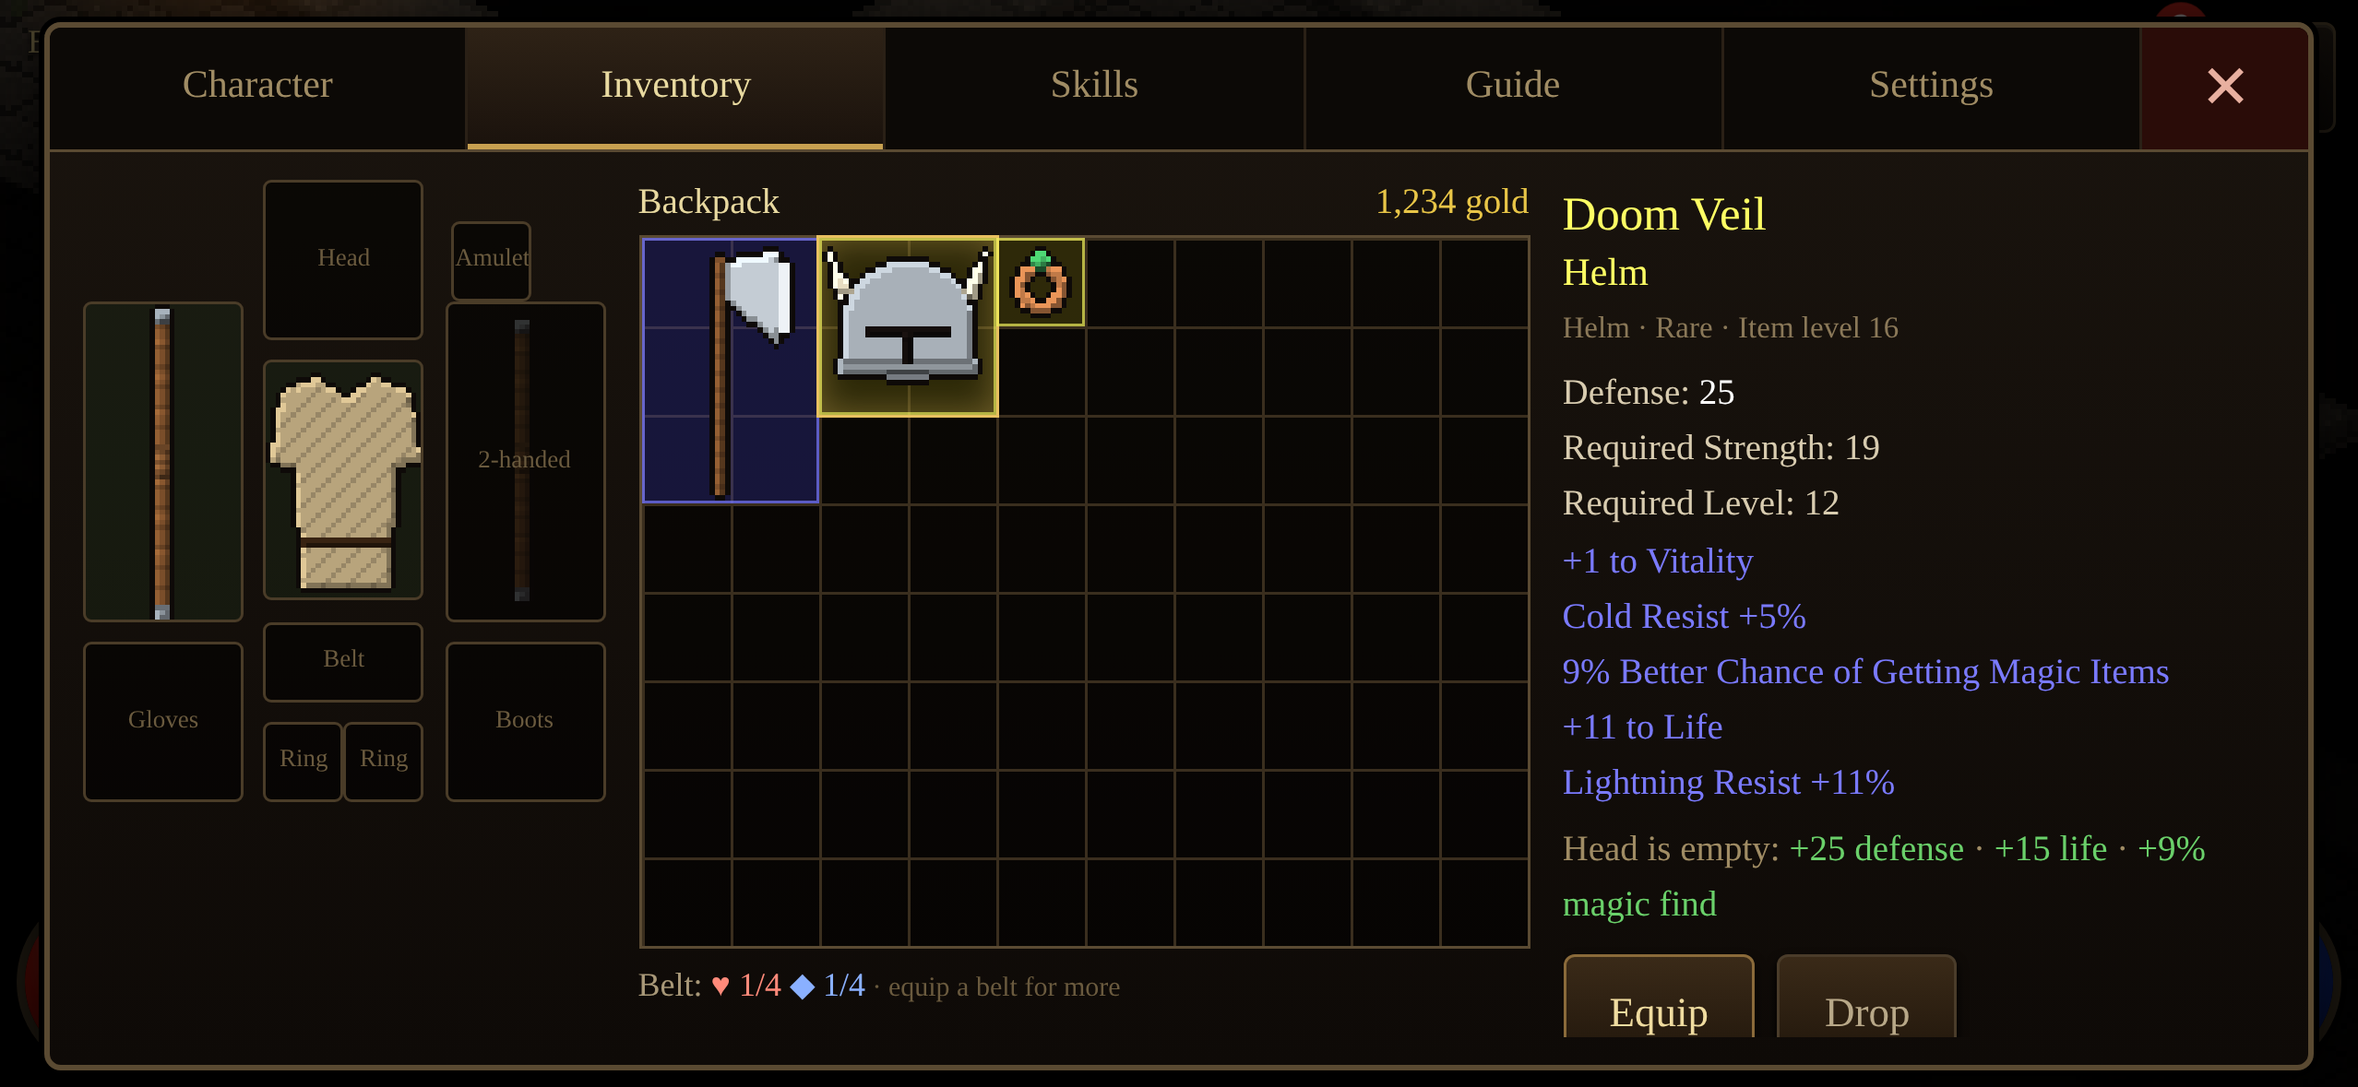
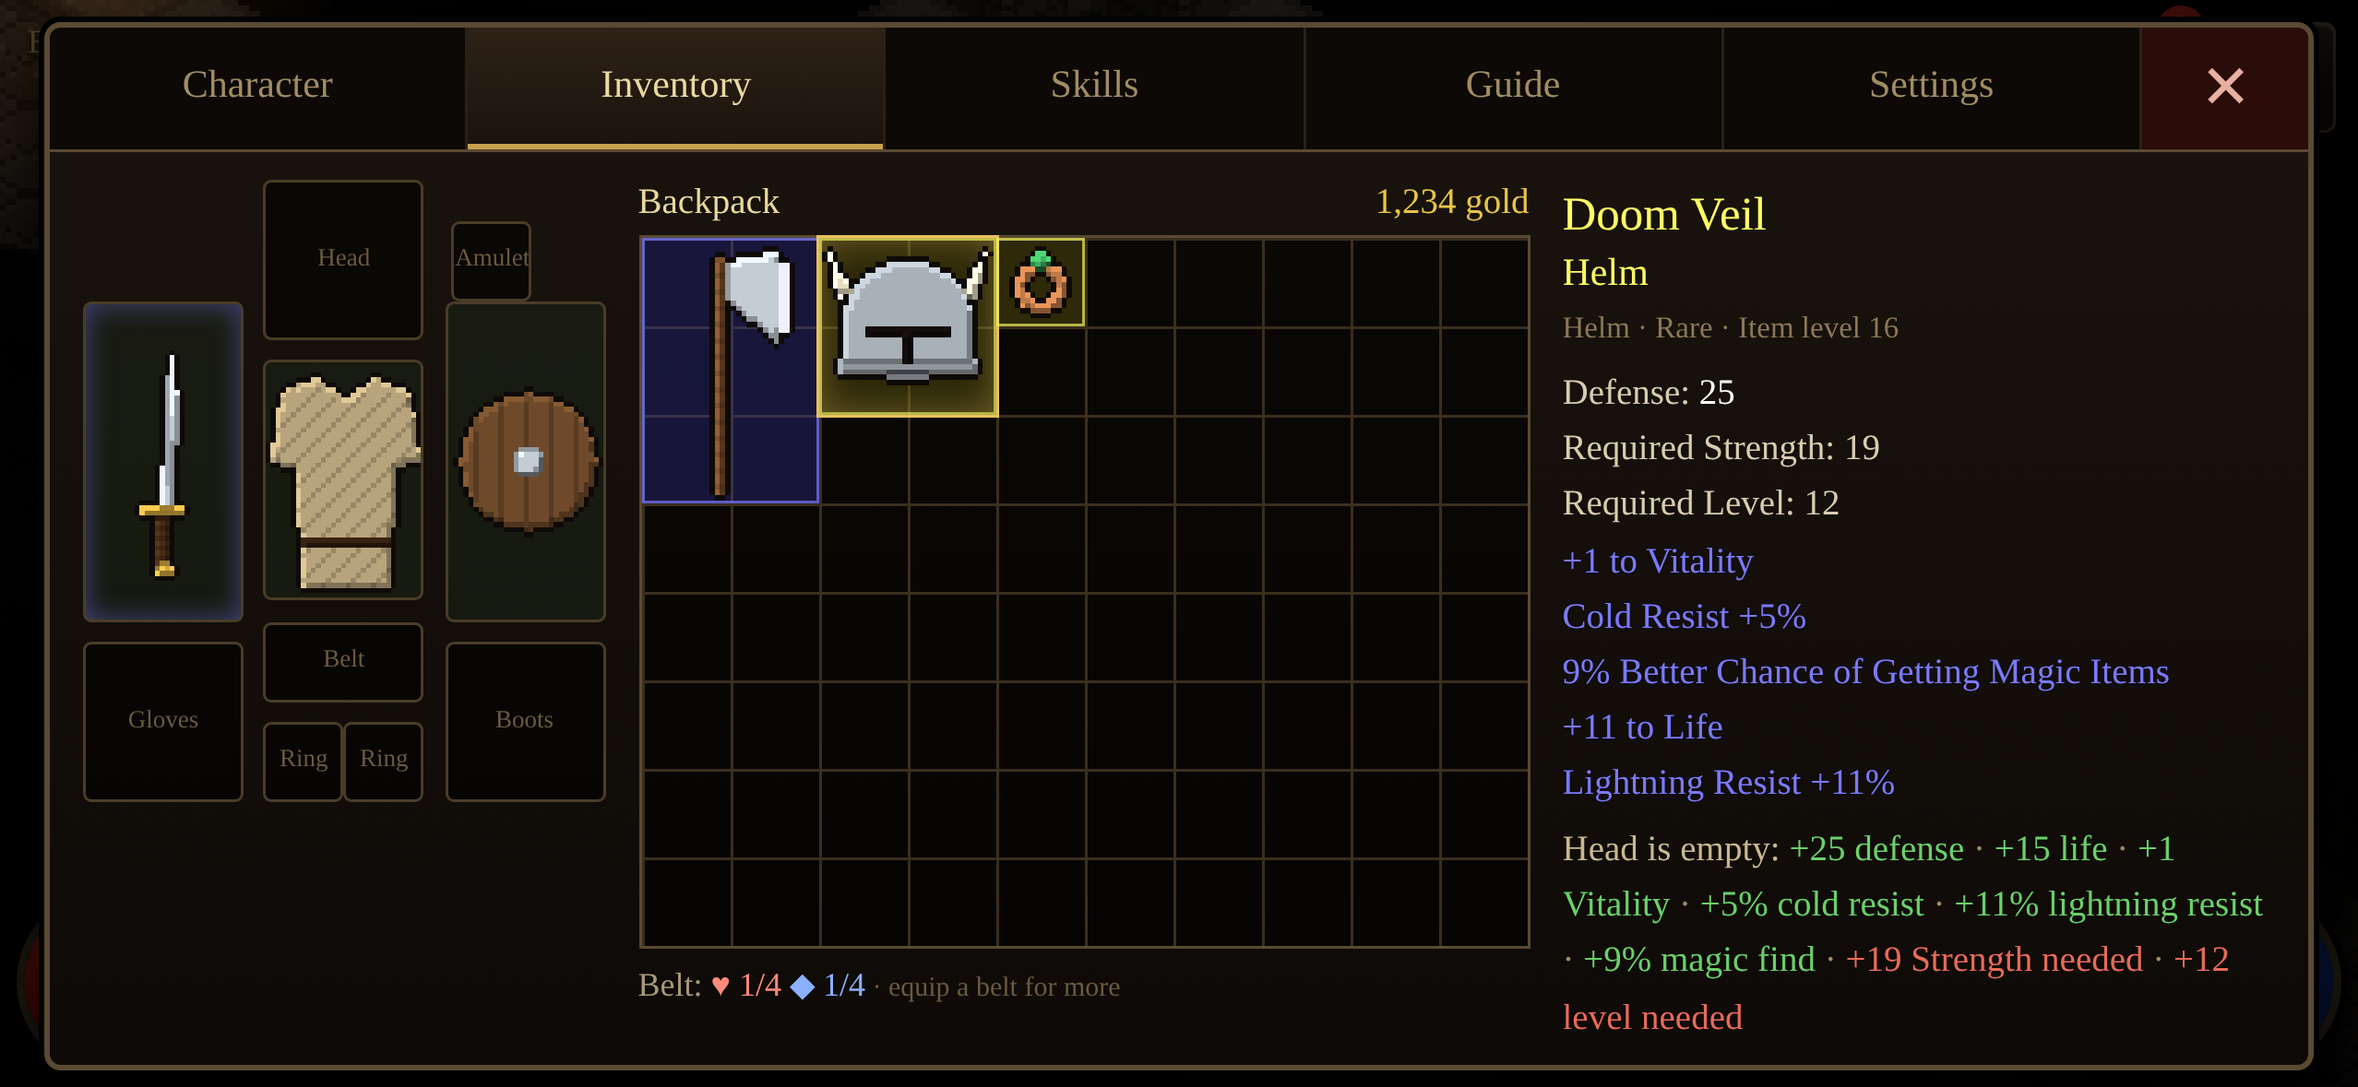
v0.7.1: compare every stat from the stat model (both hands / both rings, +skills, reqs), second tap deselects

diff --git a/src/ui.ts b/src/ui.ts
@@ -3,7 +3,7 @@ import {
   BASE_BY_ID, EQUIP_LABEL, type EquipSlot, type Item, QUALITY_LABEL, SLOT_LABEL, baseDamage, baseDefense, beltSlotsOf, ilvlOf,
   isTwoHanded, itemDamage, itemDefense, itemName, itemPrice, itemReqs, qualityOf, sellPrice,
 } from "./data/items";
-import type { Derived, SaveData } from "./game";
+import type { SaveData } from "./game";
 import { MAX_SKILL_LVL, SKILLS, SKILL_BY_ID, type Tab, TAB_NAMES } from "./data/skills";
 import { type Game, type Stats, VENDOR_H, VENDOR_W, xpForLevel } from "./game";
 import { Input } from "./input";
@@ -812,27 +812,8 @@ export class Ui {
     this.hooks.click();
     if (pr.sel) {
       if (this.sameSel(pr.sel, this.sel)) {
-        // second tap: the obvious action
-        const it = this.selItem();
-        if (!it) return;
-        if (this.openTab === "stash" && (pr.sel.src === "bag" || pr.sel.src === "stash")) {
-          const err = pr.sel.src === "bag" ? g.toStash(pr.sel.uid!) : g.fromStash(pr.sel.uid!);
-          if (err) return this.toast(err);
-          this.sel = null;
-          return;
-        }
-        if (pr.sel.src === "bag" && this.openTab === "inv") {
-          if (BASE_BY_ID[it.baseId].potion) g.drinkFromBag(pr.sel.uid!);
-          else {
-            const err = g.equipFromBag(pr.sel.uid!);
-            if (err) return this.toast(err);
-          }
-          this.sel = null;
-        } else if (pr.sel.src === "eq") {
-          const err = g.unequip(pr.sel.slot!);
-          if (err) return this.toast(err);
-          this.sel = null;
-        }
+        // second tap on the selected item deselects it (equip / sell / stash use the buttons, a drag, or tap-then-slot)
+        this.sel = null;
         return;
       }
       // tapping another item while one is selected moves/equips onto it (bag → slot)
@@ -1003,35 +984,28 @@ export class Ui {
   }
 
   /** Diff of the character's totals if this item were equipped. */
+  /** Full stat diff vs what's equipped: one block per slot it could go in (both hands, both rings). */
   private compareLine(it: Item): string {
     const g = this.game();
-    const slot = g.defaultSlot(it);
-    if (!slot) return "";
-    const cur = g.player.equip[slot];
-    const now = g.derived();
-    const then = g.previewEquip(it, slot);
-    const avg = (d: Derived) => {
-      const h = d.hands[0];
-      return ((h.min + h.max) / 2) * (1 + h.dmgPct / 100);
-    };
-    const parts: string[] = [];
-    const add = (label: string, a: number, b: number, digits = 0, unit = "") => {
-      const diff = b - a;
-      if (Math.abs(diff) < (digits ? 0.05 : 0.5)) return;
-      parts.push(`<span class="${diff > 0 ? "up" : "down"}">${diff > 0 ? "+" : ""}${diff.toFixed(digits)}${unit} ${label}</span>`);
-    };
-    add("damage", avg(now), avg(then), 1);
-    add("attack rating", now.ar, then.ar);
-    add("defense", now.def, then.def);
-    add("life", now.maxHp, then.maxHp);
-    add("mana", now.maxMana, then.maxMana);
-    add("attack speed", now.gearIas, then.gearIas, 0, "%");
-    add("run speed", now.frw, then.frw, 0, "%");
-    add("life leech", now.ll, then.ll, 0, "%");
-    add("all resists", Math.min(now.res.fire, now.res.cold, now.res.light, now.res.poison), Math.min(then.res.fire, then.res.cold, then.res.light, then.res.poison), 0, "%");
-    add("magic find", now.mf, then.mf, 0, "%");
-    const head = cur ? `vs ${esc(itemName(cur))}:` : `${EQUIP_LABEL[slot]} is empty:`;
-    return `<div class="cmp">${head} ${parts.length ? parts.join(" · ") : "no change"}</div>`;
+    const p = g.player;
+    return g
+      .compareSlots(it)
+      .map((slot) => {
+        const cur = p.equip[slot];
+        const rows = g.compare(it, slot);
+        const where =
+          slot === "off" && BASE_BY_ID[it.baseId].slot === "weapon"
+            ? cur ? `In off-hand (dual wield) vs ${esc(itemName(cur))}:` : "In off-hand (dual wield):"
+            : slot === "main" && p.equip.off && BASE_BY_ID[it.baseId].slot === "weapon" && g.compareSlots(it).length > 1
+              ? cur ? `In main hand vs ${esc(itemName(cur))}:` : "In main hand:"
+              : cur ? `vs ${esc(itemName(cur))}:` : `${EQUIP_LABEL[slot]} is empty:`;
+        const chips = rows.map((r) => {
+          const n = `${r.diff > 0 ? "+" : ""}${r.diff.toFixed(r.digits)}${r.unit}`;
+          return `<span class="${r.good ? "up" : "down"}">${n} ${esc(r.label)}</span>`;
+        });
+        return `<div class="cmp" data-slot="${slot}"><b class="cmph">${where}</b> ${chips.length ? chips.join(" · ") : "no change"}</div>`;
+      })
+      .join("");
   }
 
   private itemBox(it: Item, src: Src, x: number, y: number, C: number, extra = "") {
@@ -1080,12 +1054,12 @@ export class Ui {
     const it = this.selItem();
     const stash = this.openTab === "stash";
     if ((!s || !it) && stash) {
-      return `<div class="hint">Your stash keeps items safe in camp, saved with your hero.<br/>Drag items between the stash and your backpack, or tap an item twice to move it across.</div>`;
+      return `<div class="hint">Your stash keeps items safe in camp, saved with your hero.<br/>Drag items between the stash and your backpack, or tap an item and use To stash / To backpack. Tap it again to deselect.</div>`;
     }
     if (!s || !it) {
       return shop
-        ? `<div class="hint">Tap an item to see its price.<br/>Drag your items onto Hilde's stock to sell. Drag hers into your bag to buy.</div>`
-        : `<div class="hint">Tap an item to see it. Tap again to equip.<br/>Drag items to rearrange or onto a slot to equip.<br/>Drag out of the window to drop.</div>`;
+        ? `<div class="hint">Tap an item to see its price.<br/>Drag your items onto Hilde's stock to sell (or tap and Sell). Drag hers into your bag to buy. Tap again to deselect.</div>`
+        : `<div class="hint">Tap an item to see it and compare; tap it again to deselect.<br/>Equip with the button, by dragging onto a slot, or tap the item then a slot.<br/>Drag out of the window to drop.</div>`;
     }
     const b = BASE_BY_ID[it.baseId];
     const btns: string[] = [];
@@ -1350,7 +1324,7 @@ export class Ui {
         <p>Tap an item's name on the ground to pick it up. In the Bag, drag items around the grid or onto a slot to equip. One-handed weapons can go in the off-hand to dual wield.</p>
         <p>Kill the boss to open the stairs to the next level. In camp, sell loot to Hilde and buy potions. The waypoint ✦ takes you to any level you’ve reached.</p>
         <p>Tap ⌂ Town (top right) any time in the crypt to return to camp. Stand still for a moment; monsters can’t interrupt it, walking cancels it. A blue portal ◎ in camp takes you back to the exact spot. Items never need identifying.</p>
-        <p class="ver">Ember Crypt v0.7 · all art made in code for this game</p>
+        <p class="ver">Ember Crypt v0.7.1 · all art made in code for this game</p>
       </div>`;
   }
 

diff --git a/src/game.ts b/src/game.ts
@@ -225,6 +225,53 @@ export interface Derived {
   stats: Stats;
 }
 
+export interface CompareRow {
+  id: string;
+  label: string;
+  diff: number;
+  digits: number;
+  unit: string;
+  good: boolean;
+}
+
+const avgHit = (h: Hand | undefined) => (h ? ((h.min + h.max) / 2) * (1 + h.dmgPct / 100) : 0);
+
+/** The stats the compare tooltip diffs, all read from derived(). */
+export const COMPARE_METRICS: { id: string; label: string; get: (d: Derived) => number; digits?: number; unit?: string; lowerBetter?: boolean }[] = [
+  { id: "dmg", label: "damage", get: (d) => avgHit(d.hands[0]), digits: 1 },
+  { id: "dmg2", label: "off-hand damage", get: (d) => (d.dual ? avgHit(d.hands[1]) : 0), digits: 1 },
+  { id: "aps", label: "attacks/s", get: (d) => 1 / d.swing, digits: 2 },
+  { id: "ar", label: "attack rating", get: (d) => d.ar },
+  { id: "crit", label: "critical strike", get: (d) => d.crit, unit: "%" },
+  { id: "def", label: "defense", get: (d) => d.def },
+  { id: "life", label: "life", get: (d) => d.maxHp },
+  { id: "mana", label: "mana", get: (d) => d.maxMana },
+  { id: "str", label: "Strength", get: (d) => d.stats.str },
+  { id: "dex", label: "Dexterity", get: (d) => d.stats.dex },
+  { id: "vit", label: "Vitality", get: (d) => d.stats.vit },
+  { id: "ene", label: "Energy", get: (d) => d.stats.ene },
+  { id: "ll", label: "life leech", get: (d) => d.ll, unit: "%" },
+  { id: "ml", label: "mana leech", get: (d) => d.ml, unit: "%" },
+  { id: "frw", label: "run speed", get: (d) => d.frw, unit: "%" },
+  { id: "ias", label: "attack speed", get: (d) => d.gearIas, unit: "%" },
+  { id: "fres", label: "fire resist", get: (d) => d.res.fire, unit: "%" },
+  { id: "cres", label: "cold resist", get: (d) => d.res.cold, unit: "%" },
+  { id: "lres", label: "lightning resist", get: (d) => d.res.light, unit: "%" },
+  { id: "pres", label: "poison resist", get: (d) => d.res.poison, unit: "%" },
+  { id: "gf", label: "gold find", get: (d) => d.gf, unit: "%" },
+  { id: "mf", label: "magic find", get: (d) => d.mf, unit: "%" },
+];
+
+/**
+ * Which compare rows each affix stat shows up in. A Record over every StatKey, so adding a new
+ * affix stat won't compile until it's mapped here (and the unit test checks each one really changes).
+ */
+export const STAT_COMPARE: Record<StatKey, string[]> = {
+  edmg: ["dmg"], mindmg: ["dmg"], maxdmg: ["dmg"], ar: ["ar"], str: ["str"], dex: ["dex"], vit: ["vit", "life"], ene: ["ene", "mana"],
+  life: ["life"], mana: ["mana"], ll: ["ll"], ml: ["ml"], frw: ["frw"], ias: ["ias", "aps"], fres: ["fres"], cres: ["cres"], lres: ["lres"],
+  pres: ["pres"], ares: ["fres", "cres", "lres", "pres"], edef: ["def"], def: ["def"], gf: ["gf"], mf: ["mf"], skill: ["skill:*"],
+};
+
 /** Base walking speed in tiles per second (v0.3: raised from 3.5 to keep the v0.1 on-screen speed after the pixel-art rescale). */
 export const BASE_RUN = 4.6;
 
@@ -690,6 +737,61 @@ export class Game {
   }
 
   /** What derived stats would be with an item put in a slot (for tooltips). */
+  /**
+   * Which equipment slots to compare a bag item against: both hands for a one-hand weapon
+   * (main, and off-hand = dual wield / replacing a shield), both rings when both are worn.
+   */
+  compareSlots(it: Item): EquipSlot[] {
+    const e = this.player.equip;
+    const b = BASE_BY_ID[it.baseId];
+    const opts = this.slotsFor(it);
+    if (!opts.length) return [];
+    if (b.slot === "weapon" && b.hands === 1) return e.main && !isTwoHanded(e.main) ? ["main", "off"] : ["main"];
+    if (b.slot === "ring") return e.ring1 && e.ring2 ? ["ring1", "ring2"] : [!e.ring1 ? "ring1" : "ring2"];
+    return [opts[0]];
+  }
+
+  /**
+   * Every stat difference from equipping `it` in `slot`, from the full stat model (derived()) plus
+   * per-skill bonuses and requirements. Stats the new item lacks show up as losses.
+   */
+  compare(it: Item, slot: EquipSlot): CompareRow[] {
+    const now = this.derived();
+    const then = this.previewEquip(it, slot);
+    const rows: CompareRow[] = [];
+    for (const m of COMPARE_METRICS) {
+      const a = m.get(now);
+      const b = m.get(then);
+      const diff = b - a;
+      if (Math.abs(diff) < (m.digits ? 0.5 * 10 ** -m.digits : 0.5)) continue;
+      rows.push({ id: m.id, label: m.label, diff, digits: m.digits ?? 0, unit: m.unit ?? "", good: m.lowerBetter ? diff < 0 : diff > 0 });
+    }
+    // +skills (whether or not the skill is learned yet)
+    const skillsOf = (x: Item | undefined) => {
+      const out: Record<string, number> = {};
+      for (const md of x?.mods ?? []) if (md.s === "skill" && md.sk) out[md.sk] = (out[md.sk] ?? 0) + md.v;
+      return out;
+    };
+    const p = this.player;
+    const gone = [p.equip[slot], slot === "main" && isTwoHanded(it) ? p.equip.off : undefined];
+    const before: Record<string, number> = {};
+    for (const x of gone) for (const [k, v] of Object.entries(skillsOf(x))) before[k] = (before[k] ?? 0) + v;
+    const after = skillsOf(it);
+    for (const k of new Set([...Object.keys(before), ...Object.keys(after)])) {
+      const diff = (after[k] ?? 0) - (before[k] ?? 0);
+      if (diff) rows.push({ id: `skill:${k}`, label: `to ${SKILL_BY_ID[k]?.name ?? k}`, diff, digits: 0, unit: "", good: diff > 0 });
+    }
+    // requirements: lower is better
+    const cur = p.equip[slot];
+    const rn = itemReqs(it);
+    const rc = cur ? itemReqs(cur) : { str: 0, dex: 0, lvl: 0 };
+    for (const [k, label] of [["str", "Strength needed"], ["dex", "Dexterity needed"], ["lvl", "level needed"]] as const) {
+      const diff = rn[k] - rc[k];
+      if (diff) rows.push({ id: `req:${k}`, label, diff, digits: 0, unit: "", good: diff < 0 });
+    }
+    return rows;
+  }
+
   previewEquip(it: Item, slot: EquipSlot): Derived {
     const p = this.player;
     const saved = { ...p.equip };

diff --git a/tests/compare.test.ts b/tests/compare.test.ts
@@ -1,0 +1,85 @@
+import { describe, expect, it } from "vitest";
+import { AFFIXES, type Cat } from "../src/data/affixes";
+import { type Item, type StatKey, makeItem } from "../src/data/items";
+import { Game, type GameEvents, STAT_COMPARE } from "../src/game";
+
+const events: GameEvents = { sound() {}, toast() {}, changed() {}, died() {}, levelUp() {}, shake() {} };
+const BASE_FOR: Record<Cat, string> = { weapon: "sword", armor: "armor", helm: "helm", shield: "shield", gloves: "gloves", boots: "boots", belt: "belt", ring: "ring", amulet: "amulet" };
+const SLOT_FOR: Record<Cat, string> = { weapon: "main", armor: "chest", helm: "head", shield: "off", gloves: "gloves", boots: "boots", belt: "belt", ring: "ring1", amulet: "amulet" };
+
+function setup() {
+  const g = new Game(events, null, 7);
+  g.player.level = 30;
+  g.player.skills = { bash: 1 };
+  return g;
+}
+const plain = (id: string) => {
+  const it = makeItem(id, 10);
+  it.mods = [];
+  return it;
+};
+
+describe("item comparison covers every stat", () => {
+  // every stat any affix can roll, with a category it rolls on
+  const stats = new Map<StatKey, Cat>();
+  for (const a of AFFIXES) for (const t of a.tiers) for (const [k] of t.mods) if (!stats.has(k)) stats.set(k, a.cats[0]);
+
+  it("every affix stat is mapped (a Record over all stats, so new ones must be added)", () => {
+    for (const k of stats.keys()) expect(STAT_COMPARE[k], k).toBeTruthy();
+  });
+
+  for (const [k, cat] of stats) {
+    it(`${k}: a gain when the new item has it, a loss when it lacks it`, () => {
+      const g = setup();
+      const slot = SLOT_FOR[cat] as keyof typeof g.player.equip;
+      if (cat !== "weapon") g.player.equip.main = plain("sword");
+      g.player.equip[slot] = plain(BASE_FOR[cat]);
+      const withMod: Item = plain(BASE_FOR[cat]);
+      withMod.mods = [k === "skill" ? { s: "skill", v: 2, sk: "bash" } : { s: k, v: 8 }];
+      const want = STAT_COMPARE[k].map((id) => (id === "skill:*" ? "skill:bash" : id));
+      const gain = g.compare(withMod, slot);
+      for (const id of want) {
+        const r = gain.find((x) => x.id === id);
+        expect(r, `${k} → ${id} in ${JSON.stringify(gain)}`).toBeTruthy();
+        expect(r!.good).toBe(true);
+      }
+      // now wear the one with the stat and look at a plain one: it lacks the stat → a loss
+      g.player.equip[slot] = withMod;
+      const loss = g.compare(plain(BASE_FOR[cat]), slot);
+      for (const id of want) {
+        const r = loss.find((x) => x.id === id);
+        expect(r, `${k} loss → ${id}`).toBeTruthy();
+        expect(r!.good).toBe(false);
+        expect(r!.diff).toBeLessThan(0);
+      }
+    });
+  }
+
+  it("one-hand weapons compare in both hands (dual wield vs shield); rings against both rings", () => {
+    const g = setup();
+    g.player.equip.main = plain("sword");
+    g.player.equip.off = plain("shield");
+    const axe = plain("axe");
+    expect(g.compareSlots(axe)).toEqual(["main", "off"]);
+    const off = g.compare(axe, "off");
+    expect(off.find((r) => r.id === "def")!.good).toBe(false); // loses the shield's defense
+    expect(off.find((r) => r.id === "dmg2")!.good).toBe(true); // gains an off-hand weapon
+    g.player.equip.ring1 = plain("ring");
+    g.player.equip.ring2 = plain("ring");
+    expect(g.compareSlots(plain("ring"))).toEqual(["ring1", "ring2"]);
+    delete g.player.equip.ring2;
+    expect(g.compareSlots(plain("ring"))).toEqual(["ring2"]);
+  });
+
+  it("mana leech shows up (the bug James saw) along with requirements", () => {
+    const g = setup();
+    g.player.equip.main = plain("sword");
+    const leech = plain("sword");
+    leech.mods = [{ s: "ml", v: 5 }];
+    const rows = g.compare(leech, "main");
+    expect(rows.map((r) => r.id)).toContain("ml");
+    const gs = plain("great_sword");
+    const req = g.compare(gs, "main").find((r) => r.id === "req:str");
+    expect(req && req.diff > 0 && !req.good).toBe(true);
+  });
+});

diff --git a/src/styles.css b/src/styles.css
@@ -1250,3 +1250,5 @@ body.portrait #rotate {
 .sndrow { display: flex; align-items: center; gap: 10px; }
 .sndrow .gbtn { min-height: 44px; flex: none; }
 .sndrow small { color: #b8a888; font-size: 12px; line-height: 1.3; }
+.cmp .cmph { color: #c8b890; font-weight: normal; }
+.cmp + .cmp { margin-top: 6px; }

diff --git a/public/sw.js b/public/sw.js
@@ -1,5 +1,5 @@
 /* Simple app-shell cache. Bump CACHE when shipping a new build. */
-const CACHE = "ember-crypt-v8";
+const CACHE = "ember-crypt-v9";
 
 self.addEventListener("install", (event) => {
   self.skipWaiting();

diff --git a/README.md b/README.md
@@ -3,6 +3,13 @@
 A small Diablo II–style isometric action RPG for phones, played in landscape. Play it at
 **https://jim-avatech.github.io/ember-crypt/** (on iPhone: Share → Add to Home Screen for full screen).
 
+## v0.7.1 — full item comparison, tap-to-deselect
+
+- **Item comparison shows every stat.** It's built from the game's stat model (`Game.compare`): damage (each hand), attacks/s, AR, crit, defense, life, mana, Str/Dex/Vit/Energy, life and mana leech, run speed, attack speed, each resist, gold find, magic find, +skills, and Str/Dex/level requirements. Gains are green, losses red. Stats the new item lacks count as losses.
+- A one-hand weapon compares in the main hand and in the off-hand (dual wield, replacing a shield). A ring compares against both rings.
+- `STAT_COMPARE` is a Record over every affix stat, so a new stat won't compile until it's mapped. `tests/compare.test.ts` checks every stat as both a gain and a loss.
+- **A second tap on a selected item deselects it**, in the backpack, stash and shop. Equip with the Equip / Main hand / Off-hand buttons, by dragging onto a slot, or by tapping the item then a slot. Sell, To stash and To backpack are buttons.
+
 ## v0.7 — bigger backpack and a camp stash
 
 - **Backpack doubled to 10×8 (80 cells)**, beside the equipment at 852×393. Cells stay about the same size (32 px), so nothing needs scrolling. Saves migrate to v5 with every item in the same spot, since the grid only grew downward.
